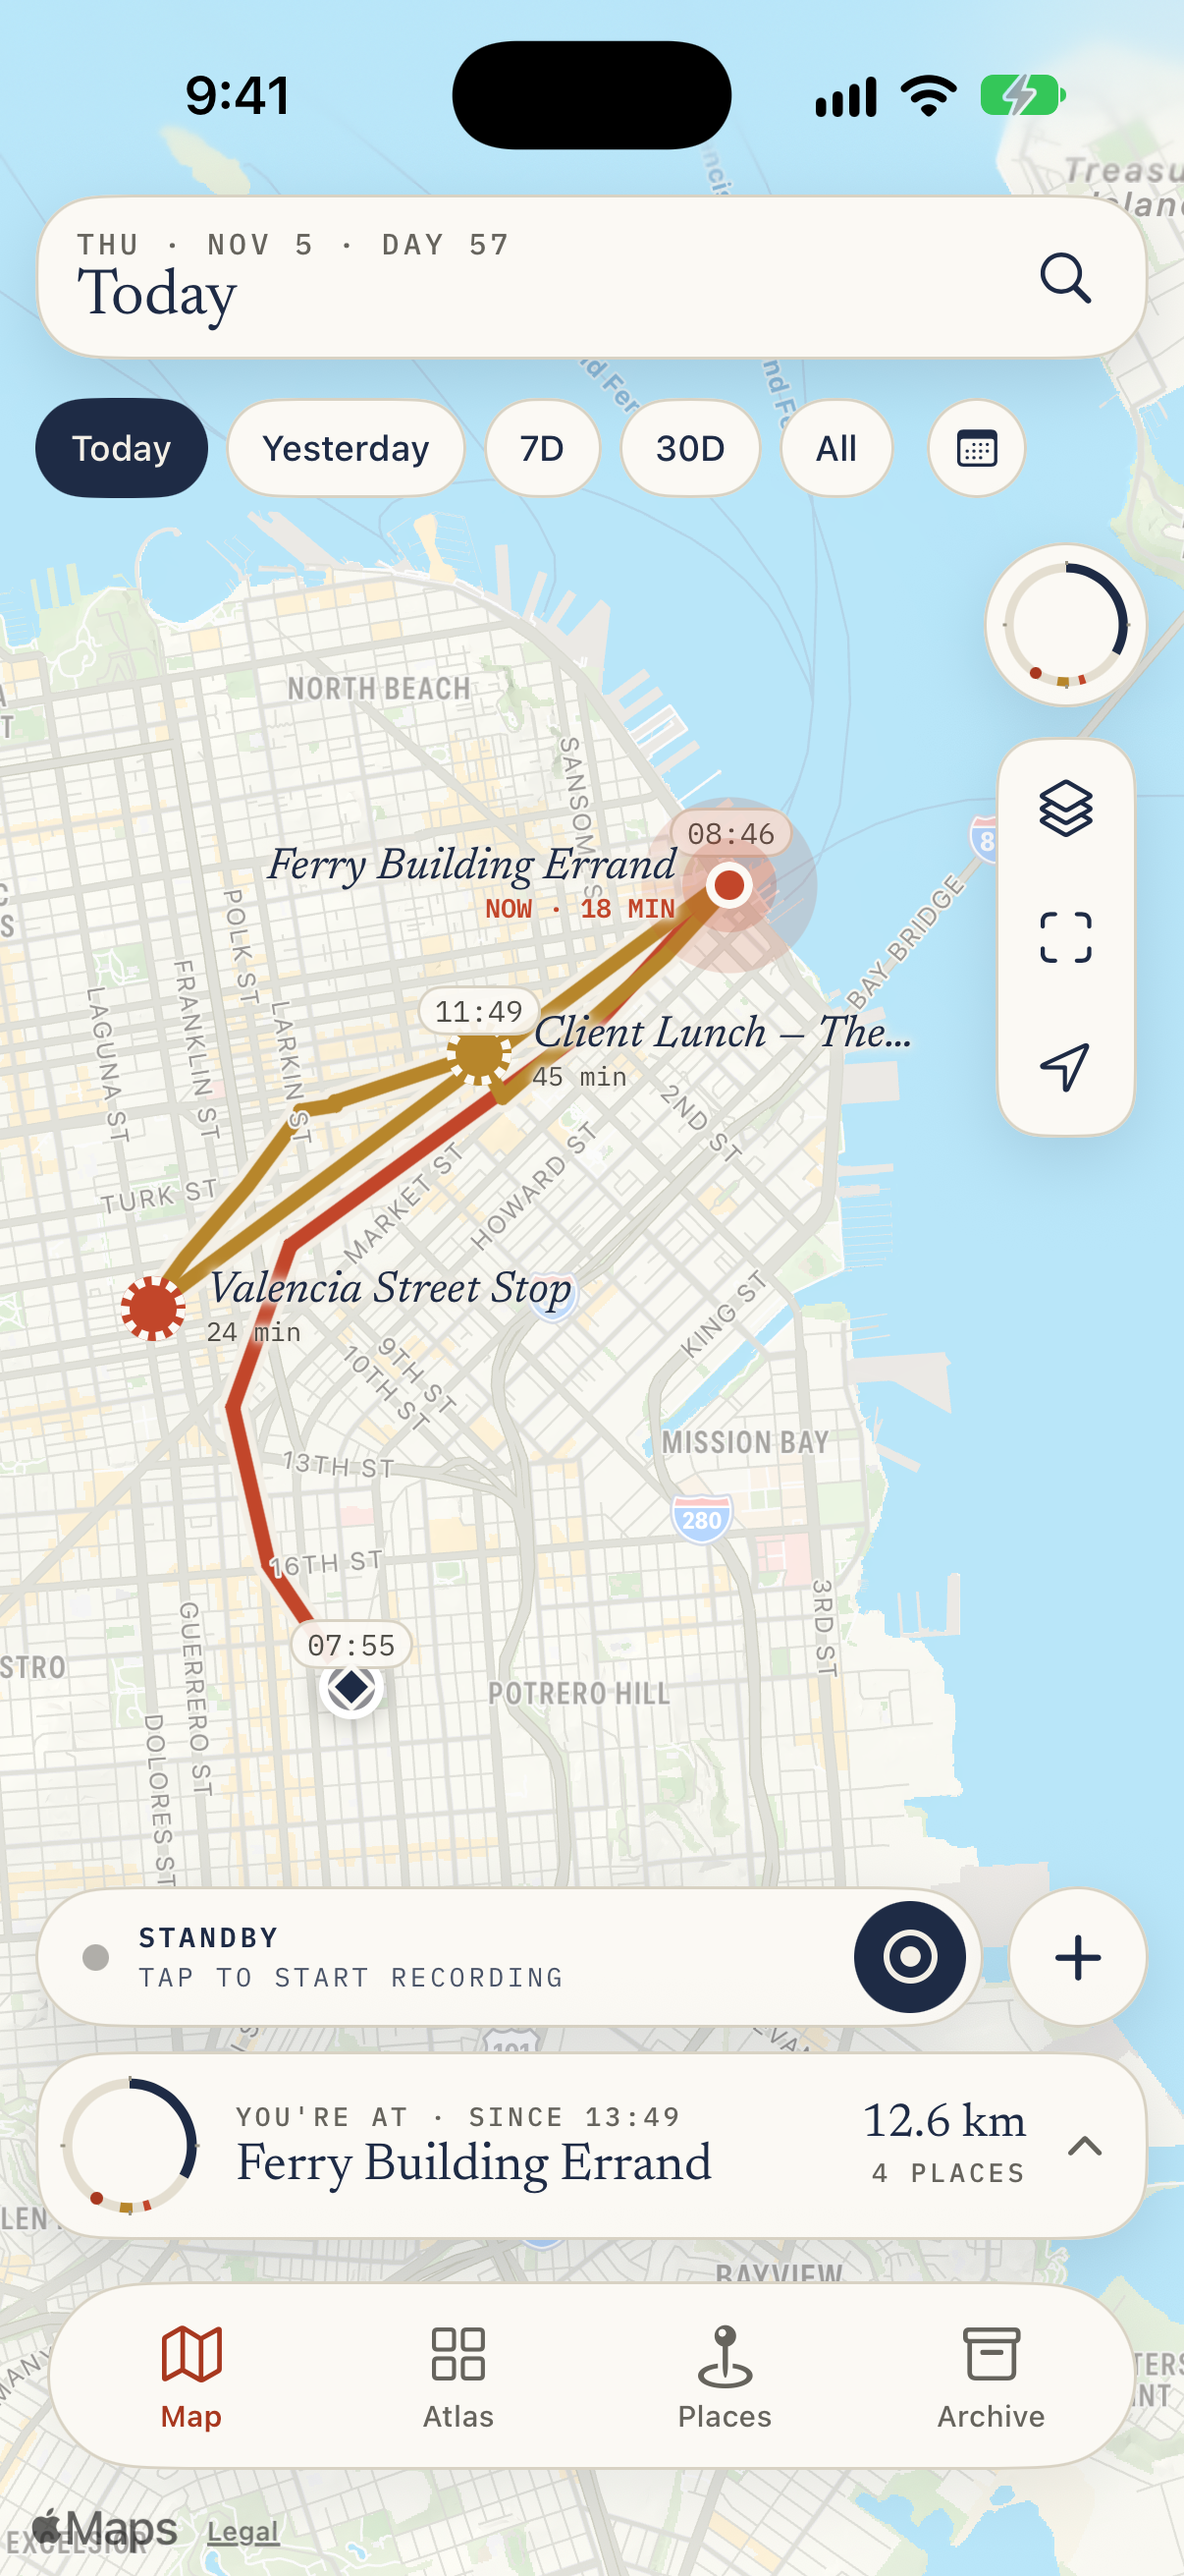
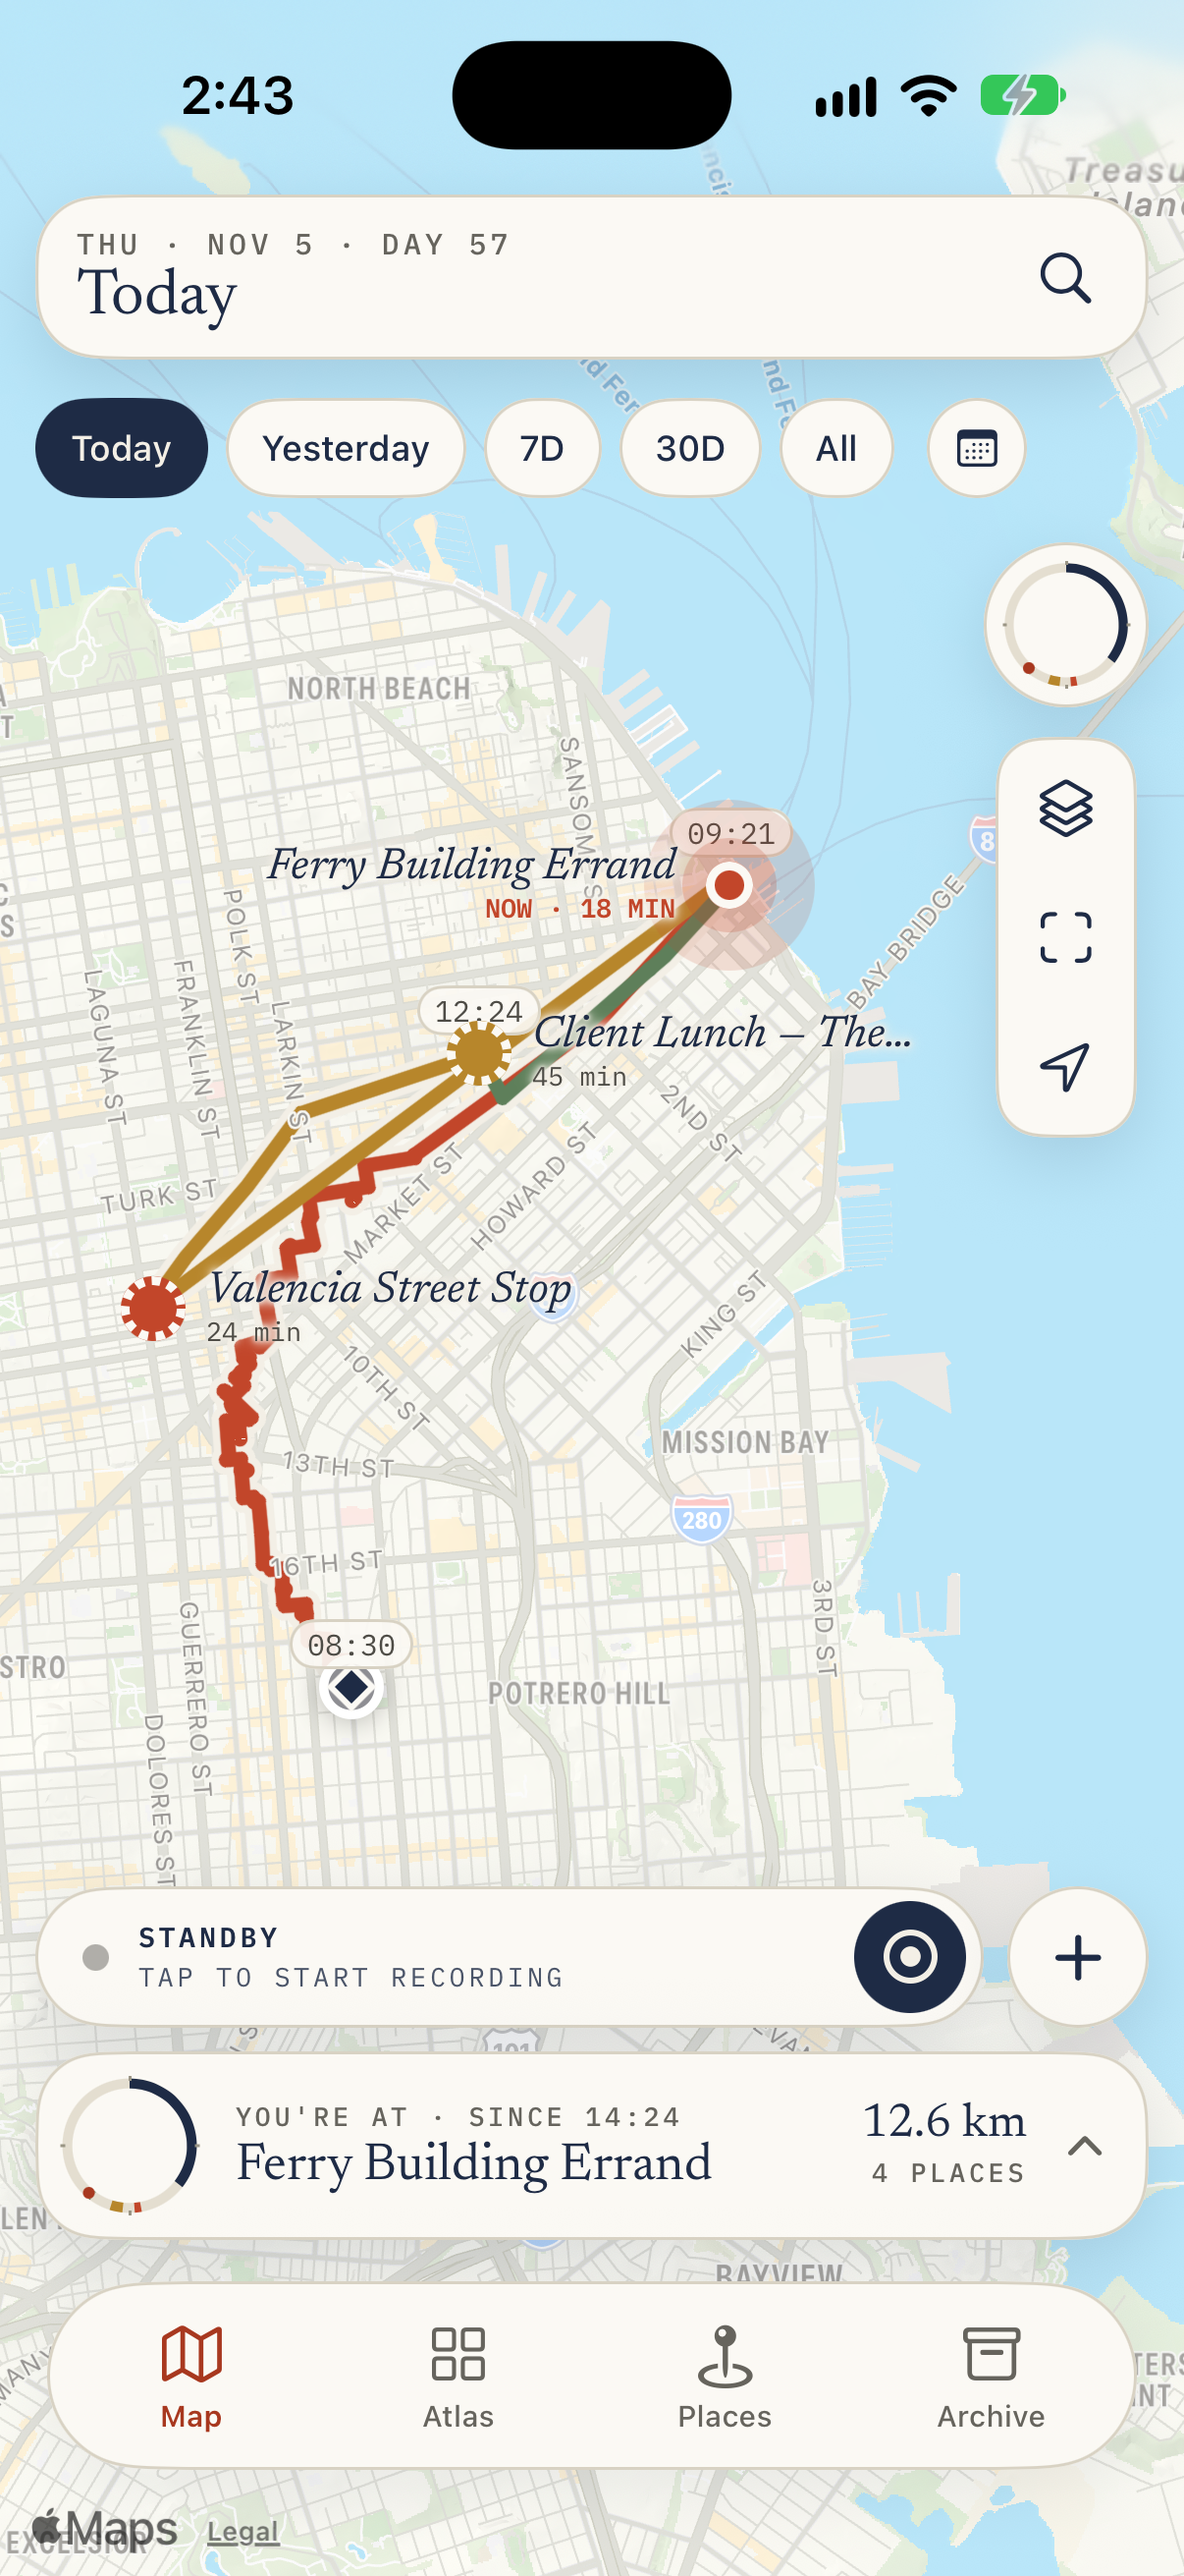
Retake the iPhone map screenshots from the fixed build
From feature/map-first-home-ios 9daa9050: visit candidates now show metric
distances, and the route keeps its colour per destination after road
matching (captured after waiting for it). The status bar shows the
simulator's local time at capture, matching the seeded journal's in-app
times. Also retakes Replay and Layers for a consistent set, rebuilds the
social card from the new map home, and updates the day sheet alt text.

diff --git a/marketing/public/index.html b/marketing/public/index.html
@@ -530,7 +530,7 @@ nav.top.shared-navigation { background: rgba(243, 239, 230, 0.9); border-bottom-
         </div>
         <div class="screens reel" role="region" aria-label="Map screenshots" tabindex="0">
           <figure>
-            <div class="phone small"><div class="mock shot" style="--w: 390; --h: 844"><img src="/screenshots/map-day-sheet-480.webp" srcset="/screenshots/map-day-sheet-480.webp 480w, /screenshots/map-day-sheet-720.webp 720w, /screenshots/map-day-sheet.webp 900w" sizes="(max-width: 720px) 265px, 281px" width="1206" height="2622" alt="The day sheet over the map: the day dial, 12.6 km moved, 6h 09m away, 4 places, and each stop from Home to the Ferry Building with the walks between them" loading="lazy" decoding="async"></div></div>
+            <div class="phone small"><div class="mock shot" style="--w: 390; --h: 844"><img src="/screenshots/map-day-sheet-480.webp" srcset="/screenshots/map-day-sheet-480.webp 480w, /screenshots/map-day-sheet-720.webp 720w, /screenshots/map-day-sheet.webp 900w" sizes="(max-width: 720px) 265px, 281px" width="1206" height="2622" alt="The day sheet over the map: the day dial, 12.6 km moved, 6h 10m away, 4 places, and each stop from Home to the Ferry Building with the walks between them" loading="lazy" decoding="async"></div></div>
             <figcaption><span class="mono">DAY SHEET</span><span class="serif">The day so far</span></figcaption>
           </figure>
           <figure>

diff --git a/marketing/public/_markdown/index.md b/marketing/public/_markdown/index.md
@@ -26,7 +26,7 @@ Continuous GPS capture that never leaves your device. Export it anytime as GPX, 
 
 Whereday opens on a map of today, each leg of the route coloured by where it led. Swipe up for the day dial, your stats and the day so far.
 
-![The day sheet over the map: the day dial, 12.6 km moved, 6h 09m away, 4 places, and each stop from Home to the Ferry Building with the walks between them](https://whereday.com/screenshots/map-day-sheet-480.webp)
+![The day sheet over the map: the day dial, 12.6 km moved, 6h 10m away, 4 places, and each stop from Home to the Ferry Building with the walks between them](https://whereday.com/screenshots/map-day-sheet-480.webp)
 
 DAY SHEETThe day so far
 
